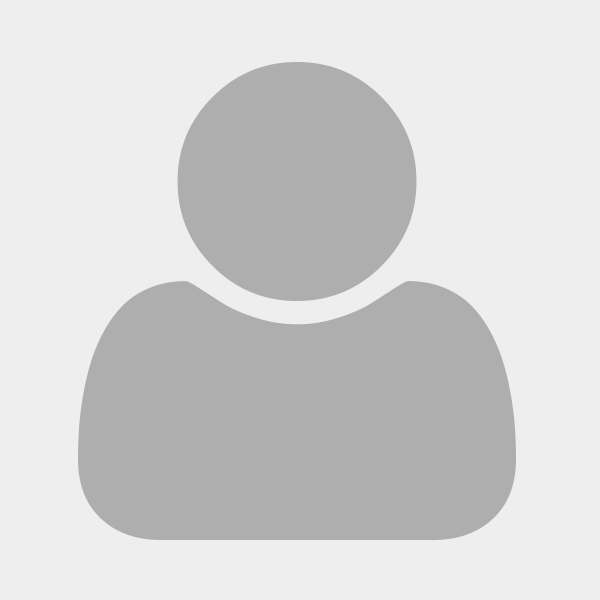
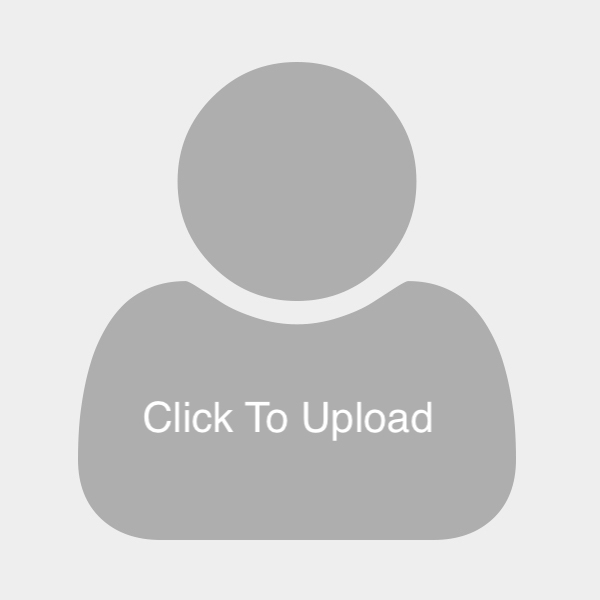
Finish profile photo implementation

Changed region(s): [[0.51, 0.66, 0.72, 0.75], [0.24, 0.66, 0.39, 0.72], [0.42, 0.66, 0.48, 0.72]]

diff --git a/src/views/ProfilePage/ProfilePage.jsx b/src/views/ProfilePage/ProfilePage.jsx
@@ -11,7 +11,9 @@ import Parallax from "components/Parallax/Parallax.jsx";
 import SimpleTable from "components/SimpleTable/SimpleTable";
 import { firebaseAuth } from "firebase/constants";
 import { getUserAppointments } from "firebase/db";
+import FileUploader from "react-firebase-file-uploader";
 import React from "react";
+import firebase from "firebase";
 
 class ProfilePage extends React.Component {
   constructor(props) {
@@ -19,9 +21,40 @@ class ProfilePage extends React.Component {
     this.state = {
       currentUser: firebaseAuth().currentUser,
       userAppointments: [],
-      loading: true
+      loading: true,
+      isUploading: false,
+      progress: 0,
+      photoURL: firebaseAuth().currentUser.photoURL || profile
     };
   }
+
+  handleUploadStart = () => this.setState({ isUploading: true, progress: 0 });
+  handleProgress = progress => this.setState({ progress });
+  handleUploadError = error => {
+    this.setState({ isUploading: false });
+    console.error(error);
+  };
+  handleUploadSuccess = filename => {
+    this.setState({ avatar: filename, progress: 100, isUploading: false });
+    firebase
+      .storage()
+      .ref("images/" + this.state.currentUser.uid)
+      .child(filename)
+      .getDownloadURL()
+      .then(url => {
+        this.setState({ photoURL: url });
+        this.state.currentUser
+          .updateProfile({
+            photoURL: url
+          })
+          .then(function() {
+            // Update successful.
+          })
+          .catch(function(error) {
+            // An error happened.
+          });
+      });
+  };
 
   async getAppointments() {
     const resp = await getUserAppointments(this.state.currentUser.uid);
@@ -48,11 +81,29 @@ class ProfilePage extends React.Component {
         <div className={classNames(classes.main, classes.mainRaised)}>
           <div>
             <div className={classes.container}>
+              {this.state.isUploading && (
+                <CustomLinearProgress color="info" variant="indeterminate" />
+              )}
               <GridContainer justify="center">
                 <GridItem md={6} sm={12} xs={12}>
                   <div className={classes.profile}>
                     <div>
-                      <img src={profile} alt="..." className={imageClasses} />
+                      <label>
+                        <FileUploader
+                          hidden
+                          accept="image/*"
+                          storageRef={firebase.storage().ref("images")}
+                          onUploadStart={this.handleUploadStart}
+                          onUploadError={this.handleUploadError}
+                          onUploadSuccess={this.handleUploadSuccess}
+                          onProgress={this.handleProgress}
+                        />
+                        <img
+                          src={this.state.photoURL}
+                          alt="..."
+                          className={imageClasses}
+                        />
+                      </label>
                     </div>
                     <div className={classes.name}>
                       <h3 className={classes.title}>
@@ -69,7 +120,6 @@ class ProfilePage extends React.Component {
                       <SimpleTable data={this.state.userAppointments} />
                     )}
                   </div>
-                  <div id="messages" />
                 </GridItem>
               </GridContainer>
             </div>
